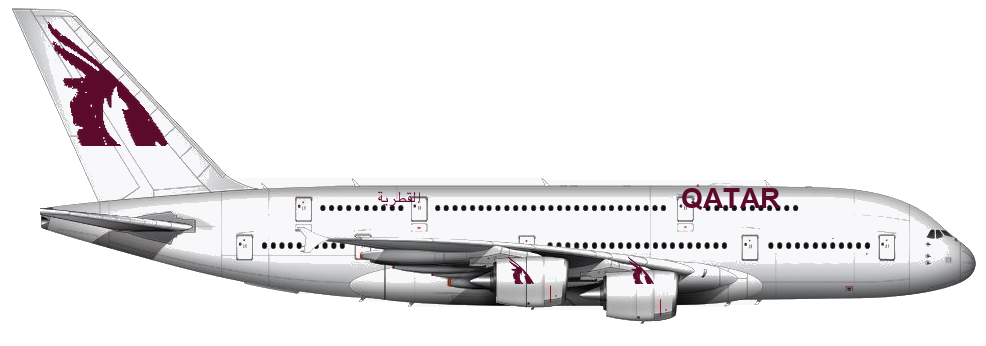
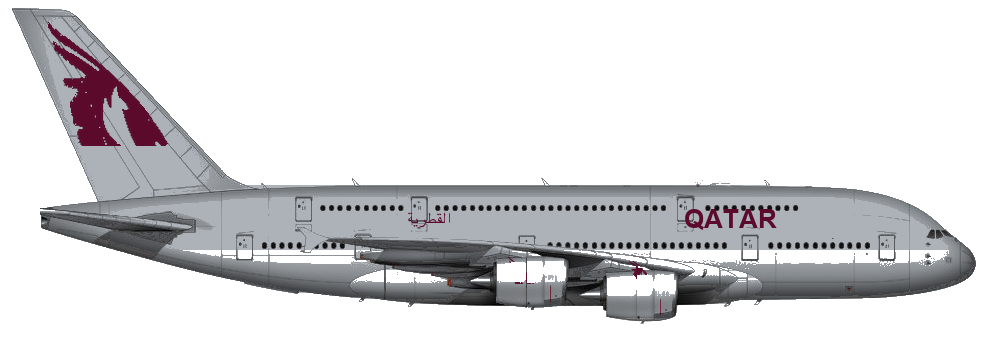
Add the remaining A380 liveries and fill the hollow between decks.
Qatar is pearl grey, titles sit between the window rows, and leftover sky holes in the fuselage are gone.

Changed region(s): [[0.0, 0.0, 1.0, 0.9249]]

diff --git a/flight-simulator-2026/js/game.js b/flight-simulator-2026/js/game.js
@@ -72,7 +72,7 @@ class Game {
       const load = (file, key) => {
         const img = new Image();
         img.onload = () => { pack[key] = img; };
-        img.src = `${base}${file}?v=liv10`;
+        img.src = `${base}${file}?v=liv12`;
       };
       load(`${prefix}-gearup.png`, "up");
       load(`${prefix}-geardown.png`, "down");
@@ -85,6 +85,11 @@ class Game {
       ["white", "a380"],
       ["uae", "a380-uae"],
       ["qtr", "a380-qtr"],
+      ["qfa", "a380-qfa"],
+      ["dlh", "a380-dlh"],
+      ["baw", "a380-baw"],
+      ["kal", "a380-kal"],
+      ["sia", "a380-sia"],
     ];
     for (const [id, prefix] of packs) {
       const pack = { up: null, down: null };
@@ -92,7 +97,7 @@ class Game {
       const load = (file, key) => {
         const img = new Image();
         img.onload = () => { pack[key] = img; };
-        img.src = `${base}${file}?v=liv10`;
+        img.src = `${base}${file}?v=liv12`;
       };
       load(`${prefix}-gearup.png`, "up");
       load(`${prefix}-geardown.png`, "down");

diff --git a/flight-simulator-2026/index.html b/flight-simulator-2026/index.html
@@ -153,7 +153,7 @@
   <script src="js/input.js?v=hump38"></script>
   <script src="js/hud.js?v=hump38"></script>
   <script src="js/loading.js?v=hump38"></script>
-  <script src="js/game.js?v=a380liv1"></script>
+  <script src="js/game.js?v=a380liv3"></script>
   <script src="js/mobile.js?v=hump38"></script>
   <script src="js/menu.js?v=free1"></script>
   <script src="js/main.js"></script>
